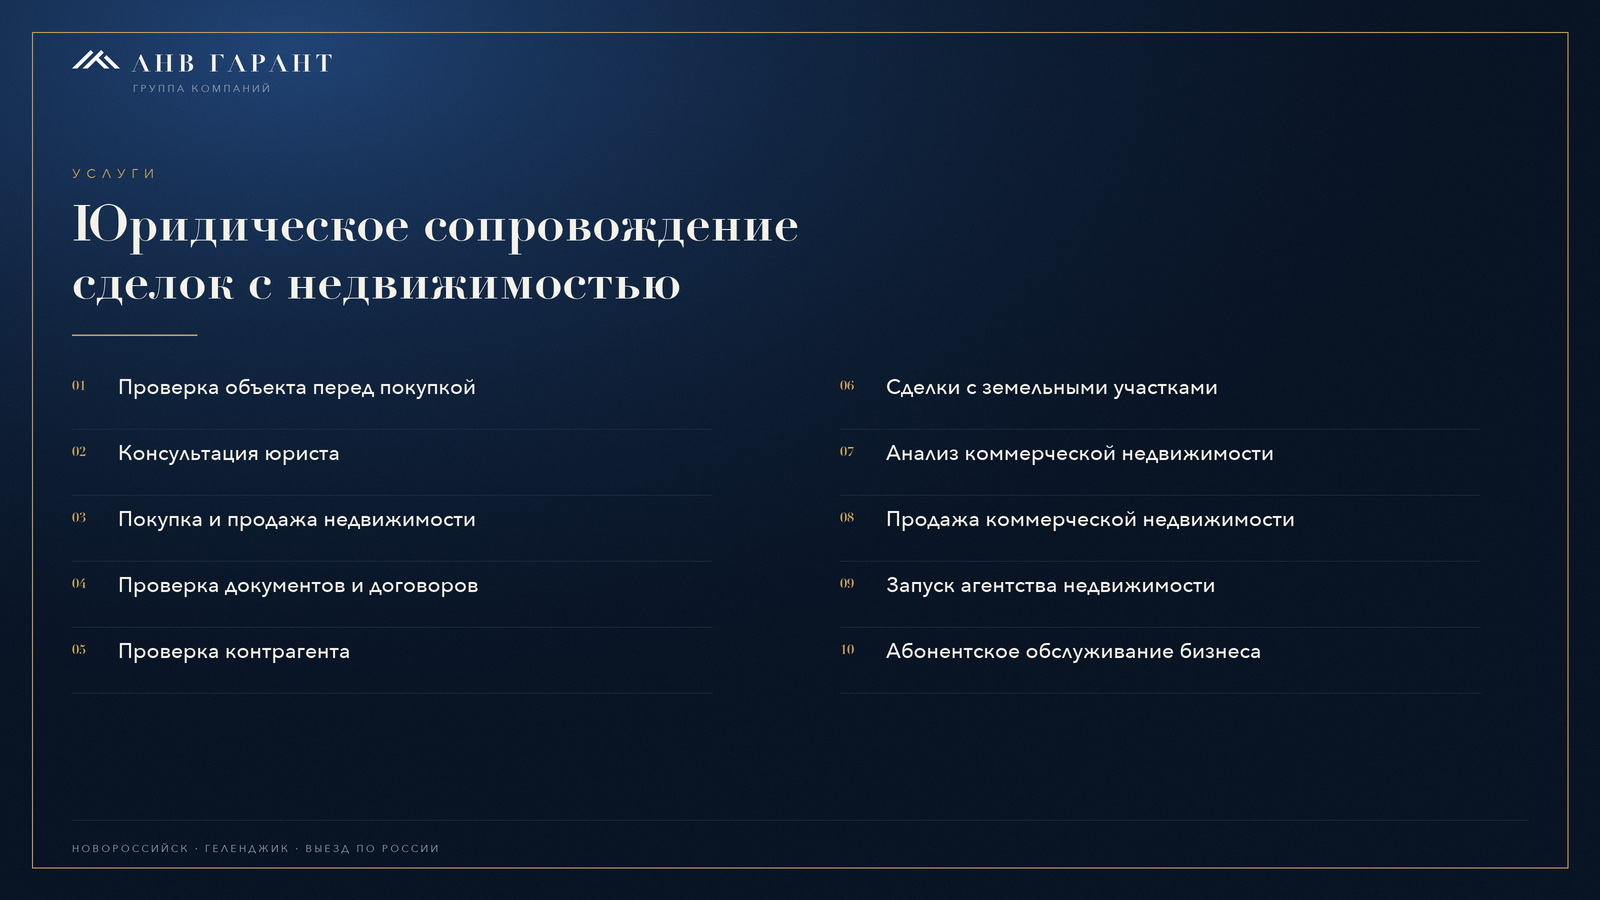
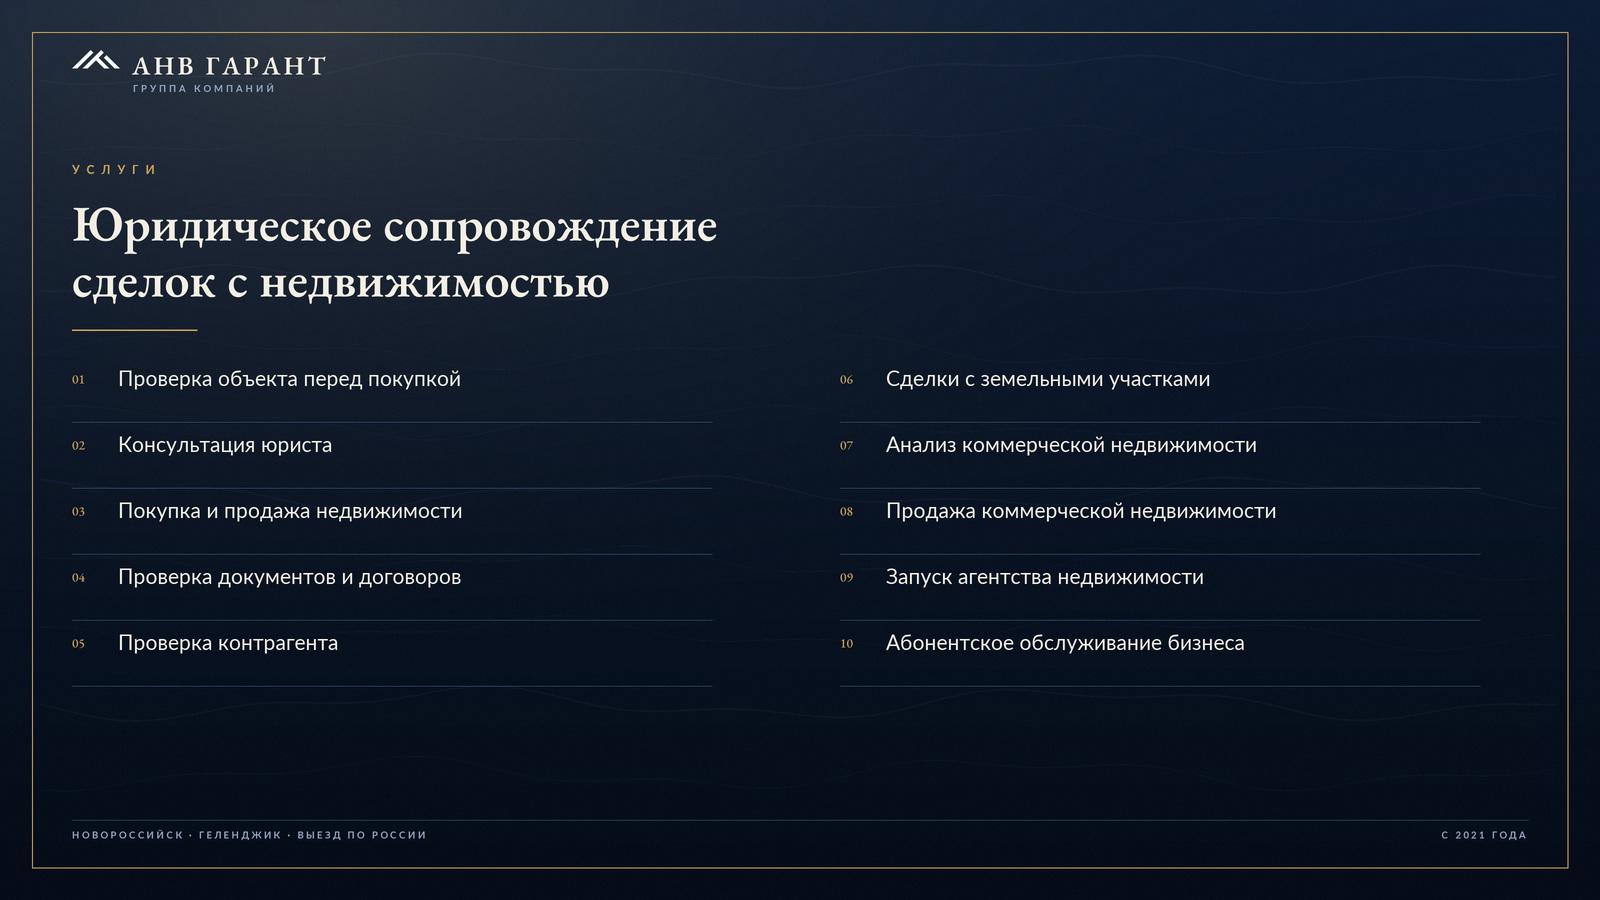
Карточка услуг: дизайн по скиллам — EB Garamond, Lato, navy

diff --git a/фото/для карточек/README.md b/фото/для карточек/README.md
@@ -59,6 +59,18 @@
 категории». Модерация может отклонить её за надписи поверх изображения, поэтому
 надёжнее опубликовать её в «Публикациях».
 
+### Дизайн картинки
+
+Собрано по скиллам `ui-ux-pro-max` и `frontend-design`:
+
+- Стиль из базы — **Trust & Authority** (сертификаты, ясность, без обещаний).
+- Пара шрифтов оттуда же — **EB Garamond + Lato** («Legal Professional»), оба с
+  кириллицей, Google Fonts.
+- Палитра: фон `#0A1626`, золото `#C9A25A`, текст `#F4EFE4`, подписи `#93A7C4`.
+  Взят мотив «authority navy + trust gold» и затемнён под карточку.
+- Подпись-элемент: еле заметные контурные линии, как карта бухты.
+- «С 2021 года» в подвале — единственный факт-доверие, без выдуманных цифр.
+
 ## Что убрали
 
 - **Лестница (0:39).** Пустой пролёт с растениями, к офису не относится.
